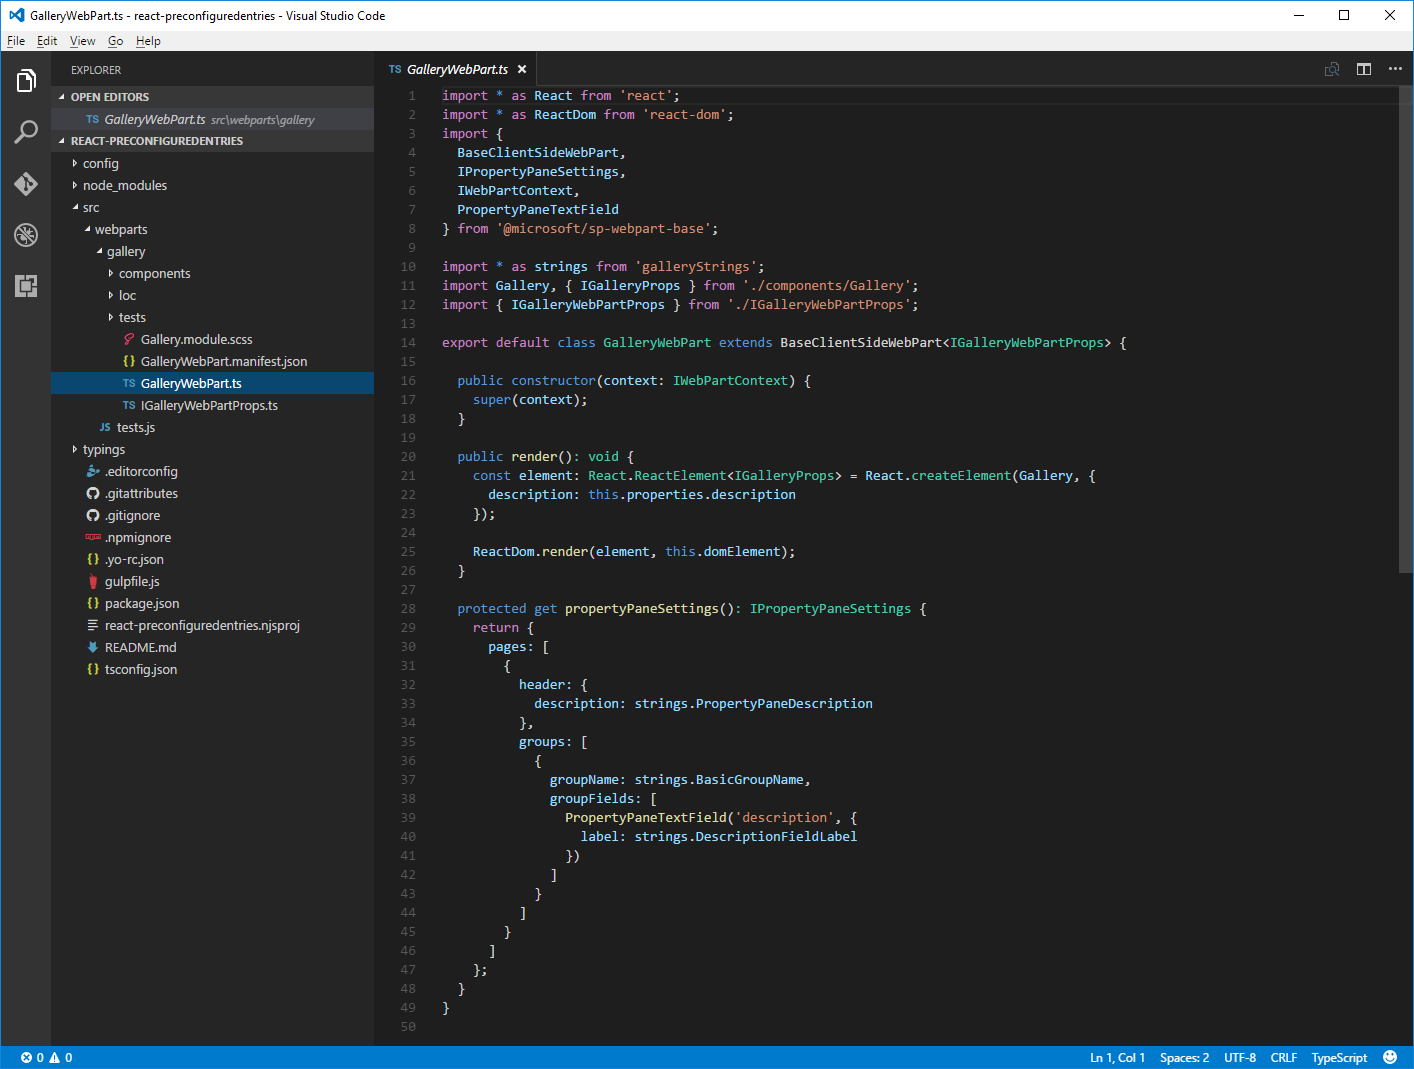
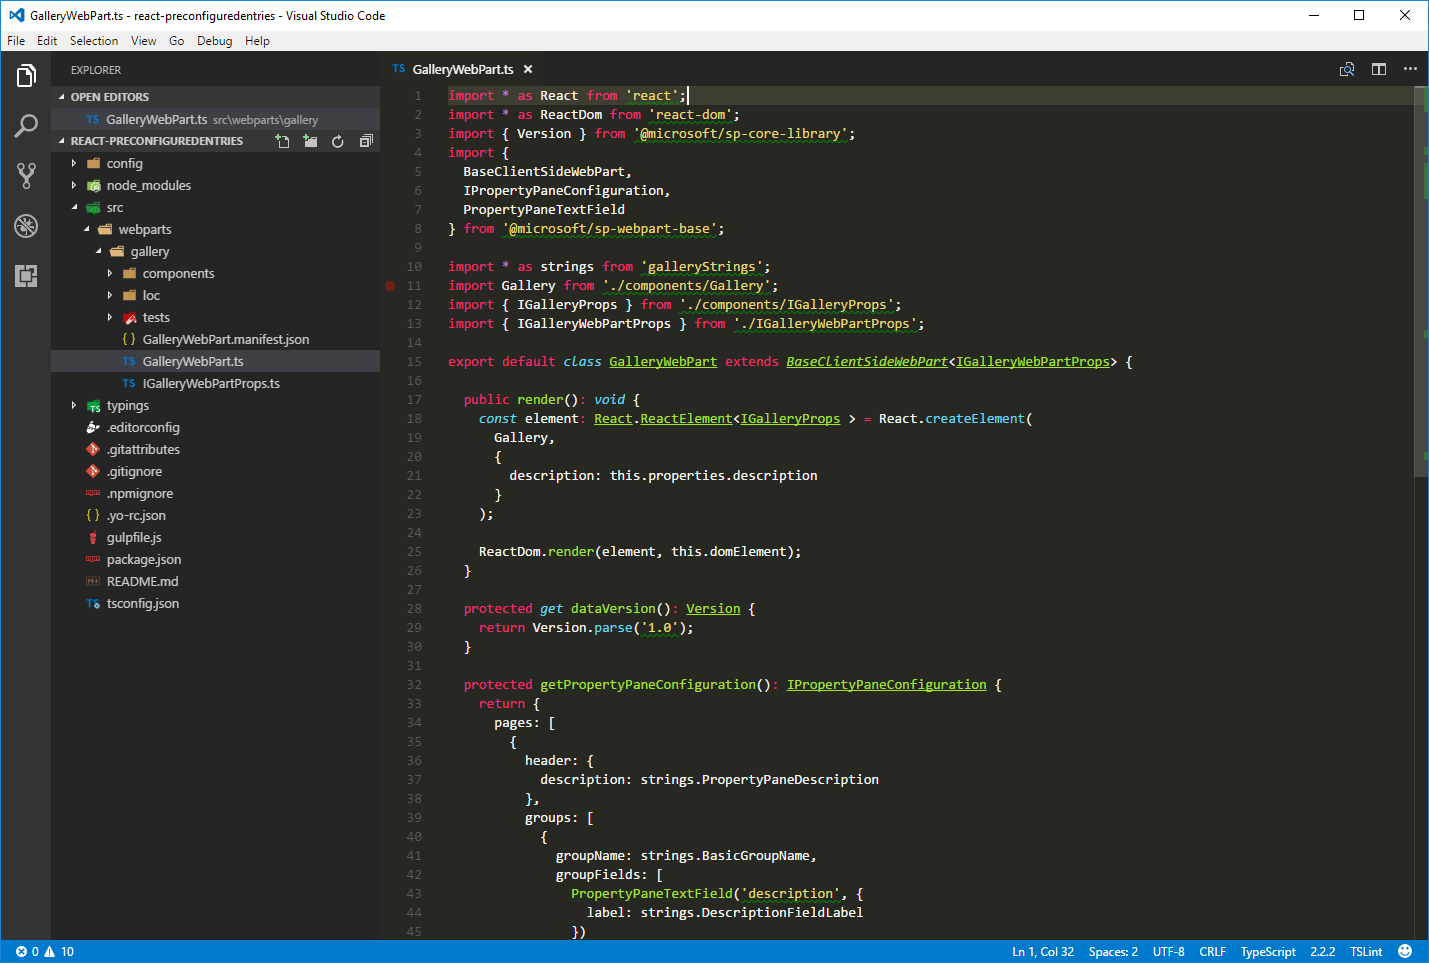
Updated perconfigured entries article to GA level.

diff --git a/docs/spfx/web-parts/guidance/simplify-adding-web-parts-with-preconfigured-entries.md b/docs/spfx/web-parts/guidance/simplify-adding-web-parts-with-preconfigured-entries.md
@@ -1,7 +1,5 @@
 # Simplify adding web parts with preconfigured entries
 
-> Note. This article has not yet been verified with SPFx GA version, so you might have challenges on making this work as such with the latest release.
-
 More complex SharePoint Framework client-side web parts will likely have many properties that the user must configure. You can help users by adding preconfigured property entries for specific scenarios. A preconfigured entry will initialize the web part with preset values. In this article you will learn how you to use preconfigured entries in a SharePoint Framework client-side web part to provide users with preconfigured versions of your web part.
 
 > **Note:** Before following the steps in this article, be sure to [set up your SharePoint client-side web part development environment](../../set-up-your-development-environment).
@@ -173,14 +171,9 @@ Update the main React component to display the values of the properties. If the 
 
 ```ts
 import * as React from 'react';
-import { css } from 'office-ui-fabric-react';
+import styles from './Gallery.module.scss';
+import { IGalleryProps } from './IGalleryProps';
 import { Placeholder } from '@microsoft/sp-webpart-base';
-
-import styles from '../Gallery.module.scss';
-import { IGalleryWebPartProps } from '../IGalleryWebPartProps';
-
-export interface IGalleryProps extends IGalleryWebPartProps {
-}
 
 export default class Gallery extends React.Component<IGalleryProps, {}> {
   public render(): JSX.Element {
@@ -192,27 +185,24 @@ export default class Gallery extends React.Component<IGalleryProps, {}> {
     }
     else {
       return (
-        <div className={styles.gallery}>
+        <div className={styles.helloWorld}>
           <div className={styles.container}>
-            <div className={css('ms-Grid-row ms-bgColor-themeDark ms-fontColor-white', styles.row)}>
+            <div className={`ms-Grid-row ms-bgColor-themeDark ms-fontColor-white ${styles.row}`}>
               <div className='ms-Grid-col ms-u-lg10 ms-u-xl8 ms-u-xlPush2 ms-u-lgPush1'>
-                <span className='ms-font-xl ms-fontColor-white'>
+                <span className="ms-font-xl ms-fontColor-white">
                   Welcome to SharePoint!
-              </span>
+                </span>
                 <p className='ms-font-l ms-fontColor-white'>
                   Customize SharePoint experiences using Web Parts.
-              </p>
+                </p>
                 <p className='ms-font-l ms-fontColor-white'>
                   List: {this.props.listName}<br />
                   Order: {this.props.order}<br />
                   Number of items: {this.props.numberOfItems}<br />
                   Style: {this.props.style}
                 </p>
-                <a
-                  className={css('ms-Button', styles.button)}
-                  href='https://github.com/SharePoint/sp-dev-docs/wiki'
-                  >
-                  <span className='ms-Button-label'>Learn more</span>
+                <a href="https://aka.ms/spfx" className={styles.button}>
+                  <span className={styles.label}>Learn more</span>
                 </a>
               </div>
             </div>
@@ -236,6 +226,15 @@ export default class Gallery extends React.Component<IGalleryProps, {}> {
 }
 ```
 
+Update the main React component Interface to match on the web part property Interface, since we are bypassing all the web part properties to this component. In the code editor, open the **./src/webparts/gallery/components/IGalleryProps.ts** file and change its code to:
+
+```ts
+import { IGalleryWebPartProps } from '../IGalleryWebPartProps';
+
+export interface IGalleryProps extends IGalleryWebPartProps {
+}
+```
+
 ### Render web part properties in the property pane
 
 For users to be able to use the newly defined properties to configure the web part, the properties must be displayed in the web part property pane. In the code editor, open the **./src/webparts/gallery/GalleryWebPart.ts** file. In the top section of the file change the **@microsoft/sp-webpart-base** import statement to:
@@ -243,8 +242,7 @@ For users to be able to use the newly defined properties to configure the web pa
 ```ts
 import {
   BaseClientSideWebPart,
-  IPropertyPaneSettings,
-  IWebPartContext,
+  IPropertyPaneConfiguration,
   PropertyPaneDropdown,
   PropertyPaneSlider,
   PropertyPaneChoiceGroup
@@ -256,7 +254,7 @@ Next, change the **propertyPaneSettings** getter to:
 ```ts
 export default class GalleryWebPart extends BaseClientSideWebPart<IGalleryWebPartProps> {
   // ...
-  protected get propertyPaneSettings(): IPropertyPaneSettings {
+  protected getPropertyPaneConfiguration(): IPropertyPaneConfiguration {
     return {
       pages: [
         {

diff --git a/docs/spfx/web-parts/get-started/hosting-webpart-from-office-365-cdn.md b/docs/spfx/web-parts/get-started/hosting-webpart-from-office-365-cdn.md
@@ -1,0 +1,49 @@
+# Hosting client-side web part from Office 365 CDN
+
+This article describes how to host your client-side web part from Office 365 CDN. Office 365 CDN provide you easy solution to host your assets directly from your own Office 365 tenant. It can be used for hosting any static assets, which are used in SharePoint Online. You can find more details around the Office 365 CDN capability from following blog post
+
+* [General avaialbility of Office 365 CDN](https://dev.office.com/blogs/general-availability-of-office-365-cdn)
+
+## Creating a new Web Part project
+
+Make sure you're using the latest version of . Run `yo` and follow the prompts to create a skeleton project,.
+
+Create a new project directory in your favorite location:
+
+```
+md sphosted-webpart
+```
+    
+Go to the project directory:
+
+```
+cd sphosted-webpart
+```
+
+Create a new SharePoint Framework solution by running Yeoman SharePoint Generator:
+
+```
+yo @microsoft/sharepoint
+```
+    
+When prompted:
+
+* Accept the default **sphosted-webpart** as your solution name and choose **Enter**.
+* Select **Use the current folder** as the location for the files.
+* Select **No JavaScript web Framework** as the framework and choose **Enter**.
+* Use **HelloWord** for your web part name and choose **Enter**.
+* Accept the default **HelloWorld description** and choose **Enter**.
+
+At this point, Yeoman will install the required dependencies and scaffold the solution files. This might take a few minutes. Yeoman will scaffold the project to include your DocumentCardExample web part as well.
+	
+When the scaffold is complete, in the console, type the following to open the web part project in Visual Studio Code:
+
+```
+code .
+```
+
+
+
+## Additional resources
+
+- links to Wictor's and Elio's projects
